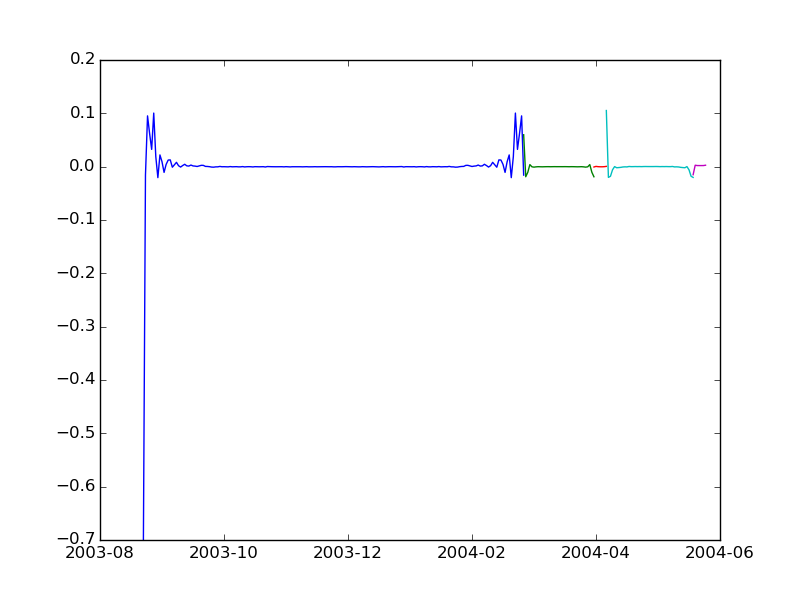
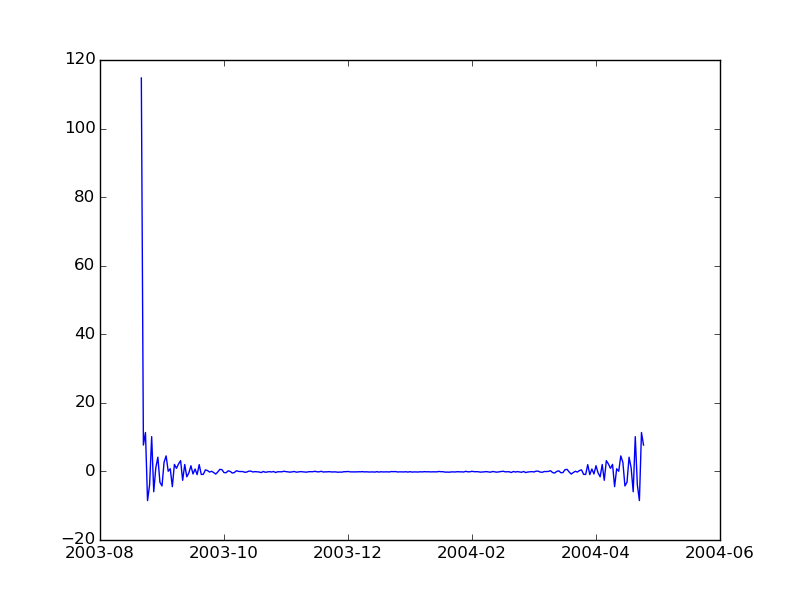
add hurst research

diff --git a/core/parts/indexes.py b/core/parts/indexes.py
@@ -241,11 +241,11 @@ def hurst_research():
     date, x = hist_data.get_historical_quotes(start_date=datetime.datetime(2003, 9, 2),end_date = datetime.datetime(2004, 6, 2))
 
     x = exp_moving_average(x, 5)
-    tx = macd(x, 12, 26)
+    tx = hurst(x)
     ax = list()
     at = list()
 
-    splt_x, splt_date = split_timeline(tx, date)
+    splt_x, splt_date = split_timeline(tx, date, division_line=0.5)
 
     ax += list(splt_x)
     at += list(splt_date)
@@ -277,12 +277,14 @@ def hurst_research():
     showPlot(date, x, 'w_x.png')
 
     # macd
-    print('macd', at)
-    shopPlotMixSeparate(ax, at, 'w_macd.png')
+    print('hurst', at)
+    shopPlotMixSeparate(ax, at, 'w_hurst.png')
 
     # wavelet
     print('wt')
-    shopPlotMixSeparate(wx, wt, 'w_wt.png')
+    shopPlotMixSeparate(wx, wt, 'w_hurst_wt.png')
 
     print('fft')
-    shopPlotMixSeparate(fx, ft, 'w_fft.png')
+    shopPlotMixSeparate(fx, ft, 'w_hurst_fft.png')
+
+hurst_research()

diff --git a/core/tools.py b/core/tools.py
@@ -28,11 +28,13 @@ def showResult(date, scales, power, time_scale, window, file_name):
     # fig.waitforbuttonpress()
 
 
-def split_timeline(line, date):
+def split_timeline(line, date, division_line=0):
     result = []
     result_date = []
     print('split_timeline')
     last_index = 0
+    for i in range(last_index, len(line)):
+        line[i] -= division_line
     while line[last_index] == 0:
         last_index += 1
     t = -np.sign(line[last_index])
@@ -46,7 +48,8 @@ def split_timeline(line, date):
             t = -t
     result.append(line[last_index:len(line)])
     result_date.append(date[last_index:len(line)])
-
+    for i in range(last_index, len(result)):
+            result[i] += division_line
     return result, result_date
 
 
